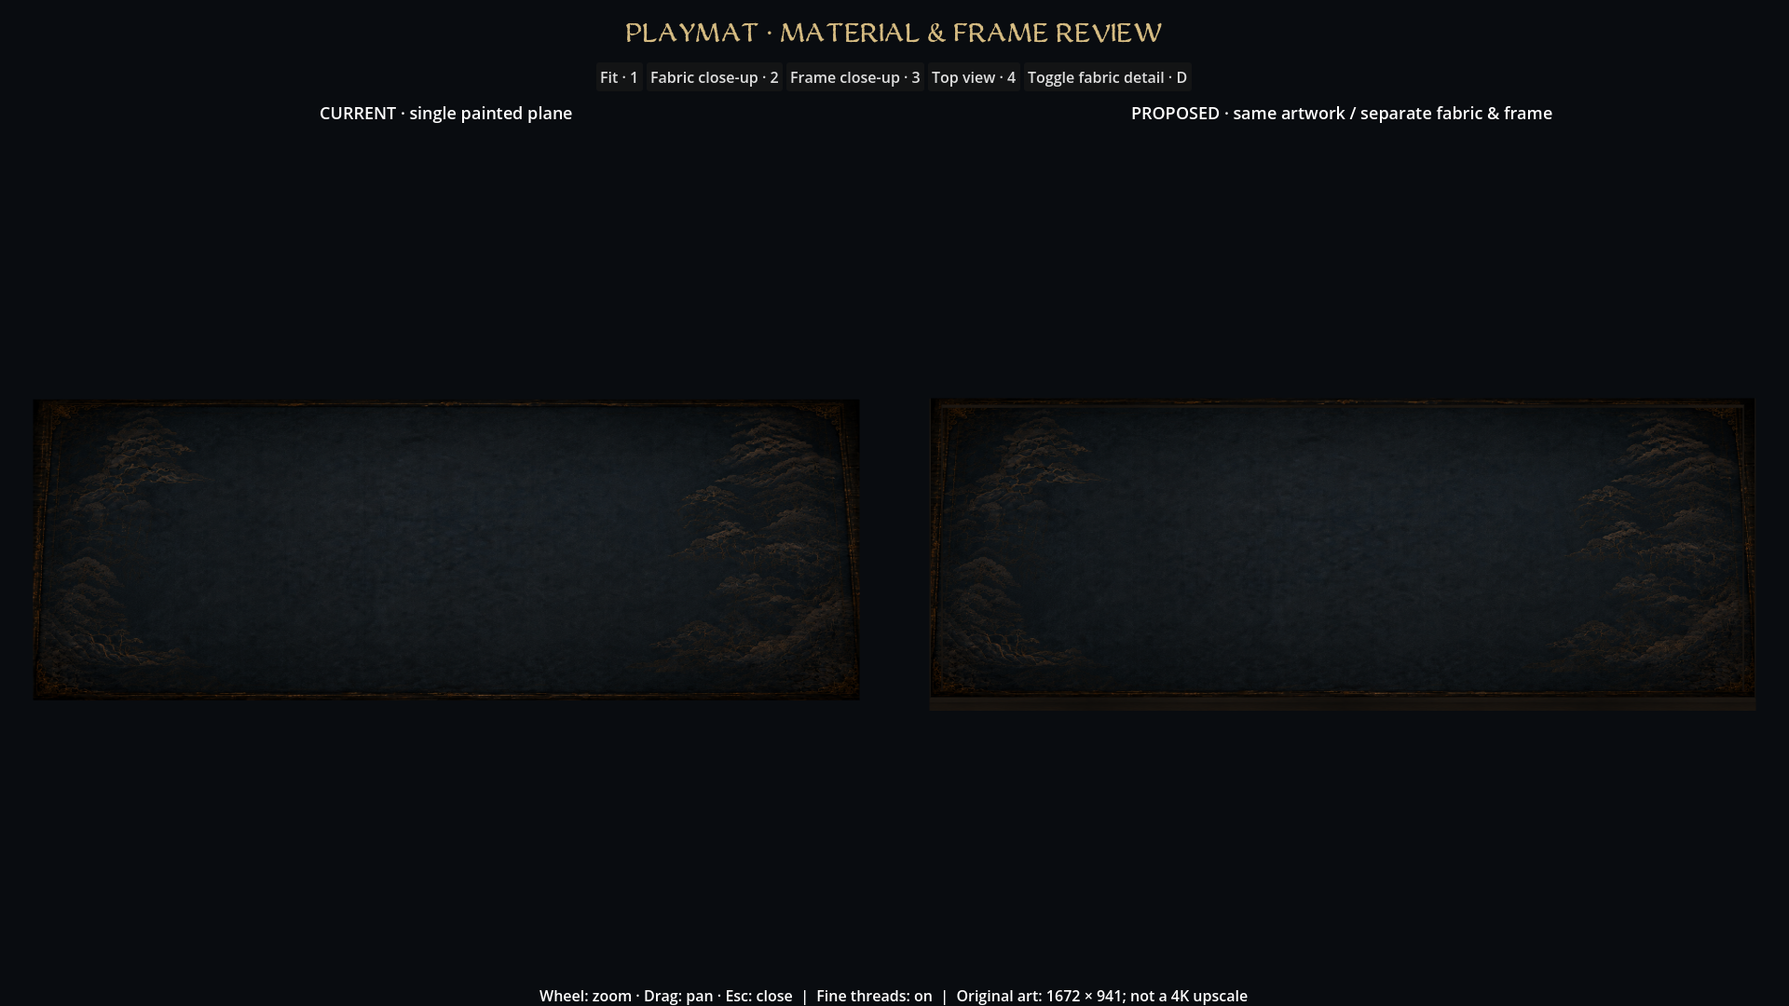
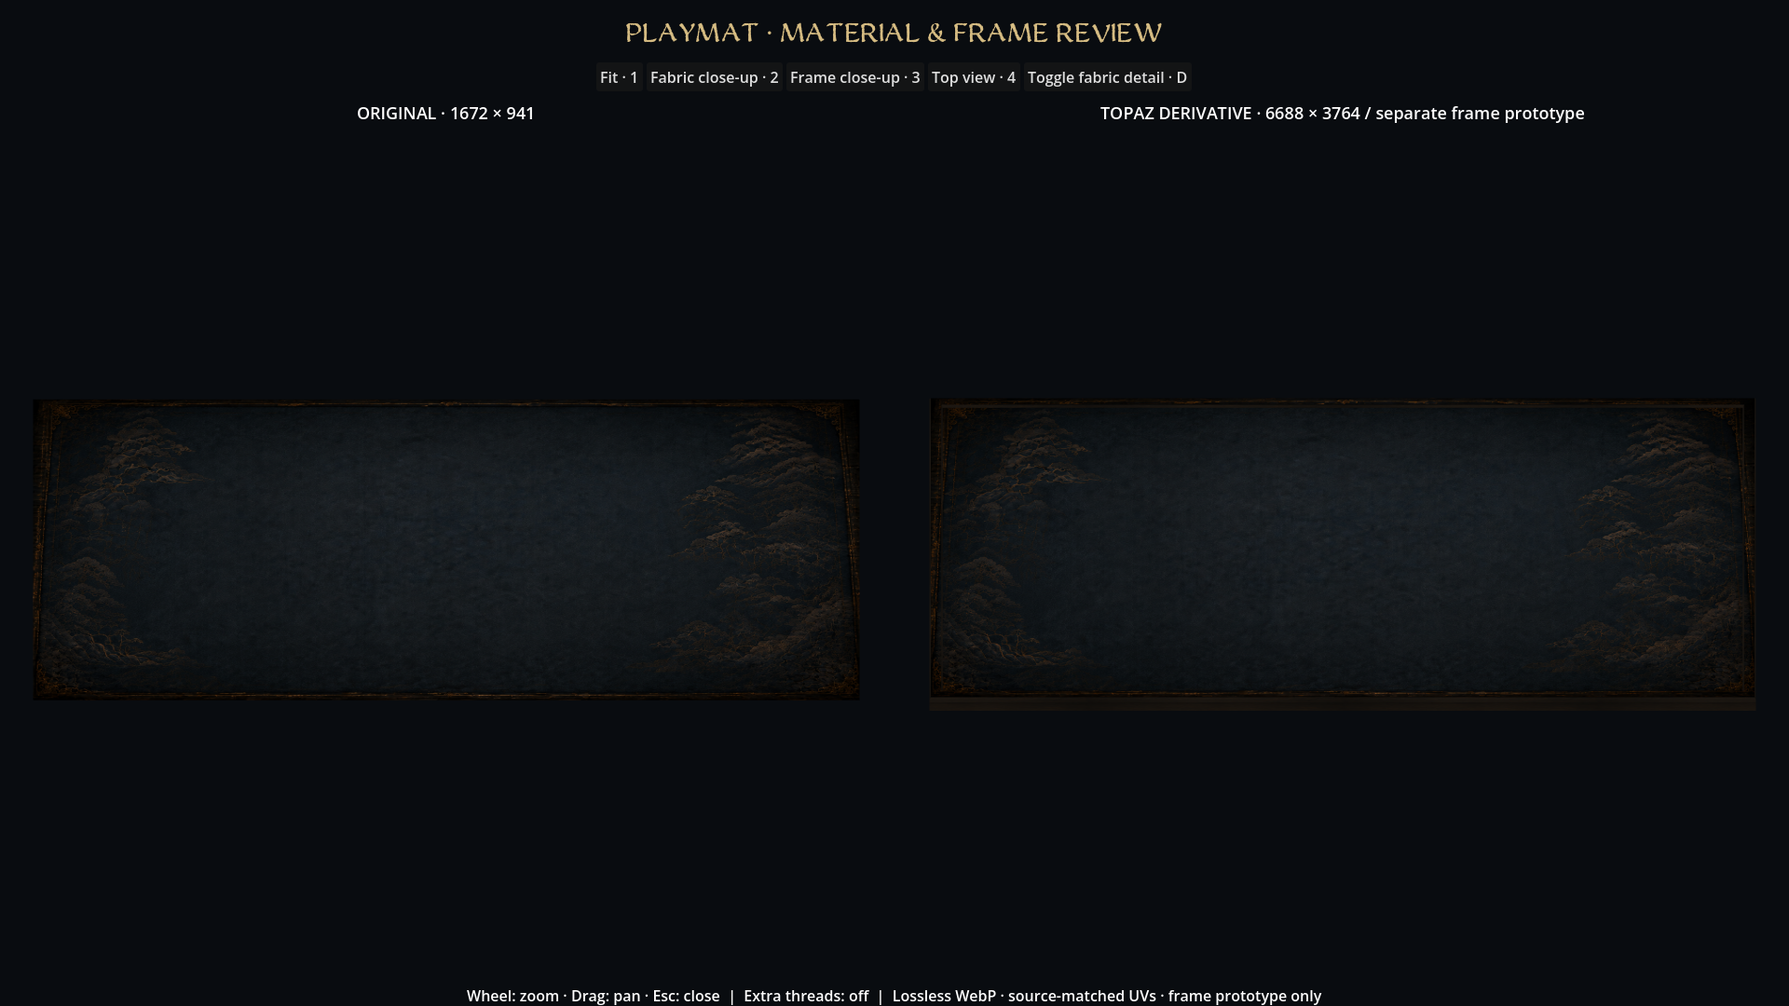
Use approved Topaz mat with verified lossless runtime texture

Changed region(s): [[0.25, 0.9778, 0.75, 1.0], [0.625, 0.0917, 0.875, 0.1222], [0.1875, 0.0917, 0.3125, 0.1222]]

diff --git a/docs/screenshots/mat-fidelity/index.html b/docs/screenshots/mat-fidelity/index.html
@@ -1,1 +1,4 @@
-<!doctype html><meta charset="utf-8"><title>Playmat material review</title><style>body{margin:0;background:#091015;color:#e9dfc7;font:18px Georgia,serif}main{max-width:1600px;margin:auto;padding:32px}h1{color:#d8b570}p{line-height:1.6;max-width:1000px}a{color:#d8b570}nav{display:flex;gap:24px;position:sticky;top:0;padding:15px;background:#091015}figure{margin:40px 0}img{width:100%;display:block}figcaption{padding:14px;border-bottom:1px solid #66583c}</style><main><h1>Playmat material &amp; frame review</h1><p>The live mat is one 1672 × 941 image, including the narrow wooden rim. These native Godot captures compare the original flat artwork with independent fabric/frame meshes using the same pixels. Fine threads add surface detail at close range; they do not restore missing detail in the printed gold artwork.</p><p>The generated reconstruction returned the same resolution and changed ornament details. It is retained as a reference, not used in these assets. This is a review prototype, not an approved 4K replacement.</p><nav><a href="#fit">Fit view</a><a href="#cloth">Fabric</a><a href="#frame">Frame</a><a href="#top">Top view</a><a href="#playable">Playable shader preview</a></nav><figure id="fit"><img src="fit.png" alt="Matching composition at fit view; left original flat plane, right separate assets."><figcaption>Matching composition at fit view; left original flat plane, right separate assets.</figcaption></figure><figure id="cloth"><img src="cloth.png" alt="Close fabric comparison. Separate fine yarn detail is subtle and filters away when zoomed out."><figcaption>Close fabric comparison. Separate fine yarn detail is subtle and filters away when zoomed out.</figcaption></figure><figure id="frame"><img src="frame.png" alt="Same ornament UVs; the right-hand asset has a separate beveled rim and wood-grain underside."><figcaption>Same ornament UVs; the right-hand asset has a separate beveled rim and wood-grain underside.</figcaption></figure><figure id="top"><img src="top.png" alt="Top-down source-to-asset comparison. No AI redraw is used in the proposed asset."><figcaption>Top-down source-to-asset comparison. No AI redraw is used in the proposed asset.</figcaption></figure><figure id="playable"><img src="playable.png" alt="Real game with optional fine-detail shader. The physical 3D frame is still in the asset review, not yet substituted for the live projected plane."><figcaption>Real game with optional fine-detail shader. The physical 3D frame is still in the asset review, not yet substituted for the live projected plane.</figcaption></figure><figure id="playable-zoom"><img src="playable-zoom.png" alt="Native 3440 by 1440 playable zoom"><figcaption>Native 3440 × 1440 close battle framing with optional fabric detail. The actual current camera and card plane are retained.</figcaption></figure></main>
+<!doctype html>
+<html lang="en"><meta charset="utf-8"><meta name="viewport" content="width=device-width,initial-scale=1"><title>Approved Topaz mat · native review</title>
+<style>body{margin:0;background:#0b1115;color:#e9dfc7;font:18px Georgia,serif}main{max-width:1700px;margin:auto;padding:32px}h1,h2{color:#d8b570}p{line-height:1.6;max-width:1000px}a{color:#dfc58b}nav{display:flex;gap:24px;flex-wrap:wrap;position:sticky;top:0;padding:15px;background:#0b1115ee;border-bottom:1px solid #67583c}figure{margin:44px 0;scroll-margin-top:90px}img{width:100%;display:block;border:1px solid #554b38}figcaption{padding:14px 0;line-height:1.5;max-width:1100px}.facts{color:#dfc58b;font-size:22px}footer{border-top:1px solid #67583c;padding:24px 0}</style>
+<main><h1>Approved Topaz mat · native review</h1><p class="facts">6688 × 3764 · lossless WebP · 18.98 MiB · mipmaps enabled</p><p>The optimized texture is now the default in this preview. Its decoded pixels exactly match the Lanczos reduction of the supplied Topaz master. The 73.73 MiB master is preserved, and the game's existing projection and lighting remain in place.</p><nav><a href="#cloth">Before / after</a><a href="#playable">Game overview</a><a href="#max">Maximum zoom</a><a href="#gold">Gold detail</a><a href="#frame">Frame prototype</a><a href="#top">Top view</a></nav><figure id="cloth"><h2>Controlled fabric comparison</h2><a href="cloth.png" target="_blank"><img src="cloth.png" alt="Left: original 1672 × 941. Right: approved 6688 × 3764 Topaz derivative. Identical review cameras, UV coordinates and colour treatment; extra procedural weave off." loading="lazy"></a><figcaption>Left: original 1672 × 941. Right: approved 6688 × 3764 Topaz derivative. Identical review cameras, UV coordinates and colour treatment; extra procedural weave off. Click an image to inspect its full resolution.</figcaption></figure><figure id="playable"><h2>In the game · overview</h2><a href="playable.png" target="_blank"><img src="playable.png" alt="3440 × 1440 native Godot capture. The new texture is the default; layout, lamp animation and camera limits are unchanged." loading="lazy"></a><figcaption>3440 × 1440 native Godot capture. The new texture is the default; layout, lamp animation and camera limits are unchanged. Click an image to inspect its full resolution.</figcaption></figure><figure id="max"><h2>In the game · maximum zoom</h2><a href="playable-zoom.png" target="_blank"><img src="playable-zoom.png" alt="3440 × 1440 at the existing 2.0 zoom limit. The original master stays untouched; this is the lossless 6688 × 3764 runtime derivative." loading="lazy"></a><figcaption>3440 × 1440 at the existing 2.0 zoom limit. The original master stays untouched; this is the lossless 6688 × 3764 runtime derivative. Click an image to inspect its full resolution.</figcaption></figure><figure id="gold"><h2>In the game · gold at maximum zoom</h2><a href="playable-gold-max.png" target="_blank"><img src="playable-gold-max.png" alt="1920 × 1080 at zoom 2.0, launched through Play Latest.command. Native input checks passed. This extreme view is included to show the practical limits of the upscale." loading="lazy"></a><figcaption>1920 × 1080 at zoom 2.0, launched through Play Latest.command. Native input checks passed. This extreme view is included to show the practical limits of the upscale. Click an image to inspect its full resolution.</figcaption></figure><figure id="frame"><h2>Wood frame · prototype only</h2><a href="frame.png" target="_blank"><img src="frame.png" alt="Right: independent beveled geometry and wood sides under the approved atlas. This frame is ready for its own design pass; it has not replaced the live painted rim." loading="lazy"></a><figcaption>Right: independent beveled geometry and wood sides under the approved atlas. This frame is ready for its own design pass; it has not replaced the live painted rim. Click an image to inspect its full resolution.</figcaption></figure><figure id="fit"><h2>Full source composition</h2><a href="fit.png" target="_blank"><img src="fit.png" alt="Original flat image at left; Topaz derivative on the separate-frame prototype at right." loading="lazy"></a><figcaption>Original flat image at left; Topaz derivative on the separate-frame prototype at right. Click an image to inspect its full resolution.</figcaption></figure><figure id="top"><h2>Top view</h2><a href="top.png" target="_blank"><img src="top.png" alt="Matching artwork placement. The original .blend still packs the small source image; Godot overrides materials with the new runtime texture." loading="lazy"></a><figcaption>Matching artwork placement. The original .blend still packs the small source image; Godot overrides materials with the new runtime texture. Click an image to inspect its full resolution.</figcaption></figure><footer><p>Verified in Godot 4.7.2 Compatibility on Apple M1 Max: native import, client compilation and existing camera/input checks. Gameplay screenshots use independently generated engine fixtures; the paired asset viewer is the controlled artwork comparison. Windows graphical testing and full motion/performance profiling are not claimed.</p><p>The next pass is the physical wood frame: approved concept, refined Blender geometry/materials, then native integration and comparison. Room lighting and a mat selector follow later.</p></footer></main></html>

diff --git a/tools/blender/prepare_mat_texture.py b/tools/blender/prepare_mat_texture.py
@@ -1,0 +1,50 @@
+#!/usr/bin/env python3
+"""Derive the approved runtime texture from the user's untouched Topaz master."""
+import argparse
+import hashlib
+import json
+from pathlib import Path
+
+from PIL import Image, ImageChops, __version__ as pillow_version
+
+ROOT = Path(__file__).resolve().parents[2]
+OUTPUT = ROOT / "src/L5R.Client/Art/navy-mat-topaz-4x.webp"
+REPORT = ROOT / "assets/table/mat-fidelity/texture-provenance.json"
+
+
+def sha256(path):
+    with path.open("rb") as stream:
+        return hashlib.file_digest(stream, "sha256").hexdigest()
+
+
+def main():
+    parser = argparse.ArgumentParser(description=__doc__)
+    parser.add_argument("master", type=Path)
+    args = parser.parse_args()
+    Image.MAX_IMAGE_PIXELS = 150_000_000
+    with Image.open(args.master) as master:
+        if master.size != (13376, 7528) or master.mode != "RGB":
+            raise ValueError("Expected the approved 13376 × 7528 RGB Topaz master.")
+        reduced = master.resize((6688, 3764), Image.Resampling.LANCZOS)
+    reduced.save(OUTPUT, "WEBP", lossless=True, method=4)
+    with Image.open(OUTPUT) as decoded:
+        if decoded.size != reduced.size or ImageChops.difference(reduced, decoded.convert("RGB")).getbbox():
+            raise ValueError("WebP verification failed: decoded pixels differ from the resized source.")
+    report = {
+        "master": {"filename": args.master.name, "dimensions": [13376, 7528],
+                   "bytes": args.master.stat().st_size, "sha256": sha256(args.master),
+                   "provenance": "User supplied Topaz 8x upscale; master preserved outside Git."},
+        "runtime": {"path": str(OUTPUT.relative_to(ROOT)), "dimensions": list(reduced.size),
+                    "bytes": OUTPUT.stat().st_size, "sha256": sha256(OUTPUT),
+                    "pixel_sha256": hashlib.sha256(reduced.tobytes()).hexdigest(),
+                    "encoding": "Lossless WebP, method 4", "resampling": "Lanczos",
+                    "pillow": pillow_version, "decoded_pixel_match": True},
+        "godot": {"compression": "lossless", "mipmaps": True, "size_limit": 0,
+                  "extra_procedural_weave": "off by default"}
+    }
+    REPORT.write_text(json.dumps(report, indent=2) + "\n")
+    print(json.dumps(report, indent=2))
+
+
+if __name__ == "__main__":
+    main()

diff --git a/src/L5R.Client/Main.CameraCapture.cs b/src/L5R.Client/Main.CameraCapture.cs
@@ -139,6 +139,21 @@ public partial class Main
                         _cameraFitted = false; _cameraZoom = FitZoom * .72f;
                         ApplyTableCamera();
                     }
+                    if (_captureMode.Contains("mat-max", StringComparison.Ordinal))
+                    {
+                        // Review the real table at its existing maximum zoom, with
+                        // both near-side artwork and cards visible for scale.
+                        _cameraFitted = false; _cameraZoom = 2f;
+                        _cameraCenter = new Vector2(WorldWidth * .2f, _selfProvinceY);
+                        if (_captureMode.Contains("gold", StringComparison.Ordinal))
+                        {
+                            var fabric = TableArtStage.FabricBounds(new Vector2(WorldWidth, _worldHeight));
+                            _cameraCenter.X = fabric.Position.X + fabric.Size.X * .09f;
+                        }
+                        ApplyTableCamera();
+                        RequireCamera(Mathf.IsEqualApprox(_cameraZoom, 2f), "mat review did not reach the maximum zoom");
+                        GD.Print($"MAT_MAX_ZOOM: zoom={_cameraZoom}, density={_root.Scale.X}, center={_cameraCenter}");
+                    }
                     MoveProbeMouse(_menu.GetGlobalRect().Position - new Vector2(10, 10));
                     break;
                 case 21:

diff --git a/src/L5R.Client/TableArtStage.cs b/src/L5R.Client/TableArtStage.cs
@@ -104,9 +104,15 @@ public partial class TableArtStage : Node3D
                     }
                     """ };
                 var material = new ShaderMaterial { Shader = ReviewMode ? shader : GD.Load<Shader>("res://Art/navy-table.gdshader") };
-                if (!ReviewMode) material.SetShaderParameter("plate_texture", GD.Load<Texture2D>("res://Art/navy-mat-v4.png"));
                 if (!ReviewMode)
                 {
+                    // Retain the original only for matched native fidelity captures.
+                    var matPath = OS.GetCmdlineUserArgs().Contains("--mat-original-review")
+                        ? "res://Art/navy-mat-v4.png" : "res://Art/navy-mat-topaz-4x.webp";
+                    var mat = GD.Load<Texture2D>(matPath);
+                    if (mat is null) throw new InvalidOperationException($"The playable mat texture is missing: {matPath}");
+                    material.SetShaderParameter("plate_texture", mat);
+                    GD.Print($"MAT_TEXTURE: {matPath} {mat.GetWidth()}x{mat.GetHeight()}; extra weave opt-in only.");
                     if (OS.GetCmdlineUserArgs().Contains("--mat-detail-preview"))
                         material.SetShaderParameter("fabric_detail_strength", .13f);
                     material.SetShaderParameter("lantern_texture", GD.Load<Texture2D>("res://Art/tavern-lantern.png"));

diff --git a/assets/table/mat-fidelity/README.md b/assets/table/mat-fidelity/README.md
@@ -1,39 +1,38 @@
-# Playmat material / frame review — issue 218
+# Playmat texture and separate-frame review — issue 218
 
-The active game uses the 1672×941 `navy-mat-v4.png` on a shader-projected flat plane. The visible narrow wooden edge is baked into that texture. Lanterns are separate. Older `TableView`/`build_table.py` wooden geometry is not the active table.
+The playable table now uses the approved Topaz artwork at **6688 × 3764**, encoded as **lossless WebP (19,905,220 bytes / 18.98 MiB)**. The user's 13376 × 7528 PNG master remains untouched outside Git. Layout, camera limits, lantern animation and colour treatment are preserved. The painted rim is still part of the playable texture; the physical frame remains a review prototype.
 
-This pass creates independent Blender fabric and frame objects and a Godot review. The original artwork remains the source of truth. No game layout, camera limits, cards, menus or rules are changed. The live mat is not replaced by an unapproved generated variant.
+## Approved texture pipeline
 
-## Fidelity strategy
+Run `python3 tools/blender/prepare_mat_texture.py /path/to/enhanced_navy-mat-v4.png` with Pillow installed. The script validates the expected master dimensions, halves both axes using Lanczos, writes the runtime WebP and verifies that decoding it exactly reproduces the resized RGB pixels. It does not repaint, sharpen, crop or recompose the approved artwork. `texture-provenance.json` records input/output hashes, dimensions, encoding and Pillow version.
 
-- Preserve the original printed design through continuous UVs across fabric and frame. No AI redraw in the proposed asset.
-- Add derivative-filtered fine textile detail separately. It resolves at close range and fades below pixel size; it does not restore missing detail in the gold illustration.
-- Model a narrow, beveled wooden frame independently, with real depth and separate wood material.
-- Keep the cloth material, frame material and geometry independent so later approved mats can replace the cloth without rebuilding the table.
+Godot imports the texture losslessly with mipmaps and no size cap or automatic 3D compression. The runtime source is 74% smaller than the master, with 75% fewer pixels. The current RGB8 texture plus a full mip chain is approximately 96 MiB before driver overhead (128 MiB if expanded to RGBA8). WebP saves file storage, not GPU memory by itself. The local Godot imported texture is approximately 26 MiB on disk including mip levels.
 
-The generated `fabric-reconstruction-reference.png` is an experiment only: it returned 1672×941 despite the 4K request, and changed ornaments. It is not an upscale. See `imagegen-prompt.md`.
+The active `TableArtStage` loads this WebP by default. `--mat-original-review` retains the old 1672 × 941 image for diagnostics only. Extra procedural weave stays off; `--mat-detail-preview` remains an optional material experiment because the Topaz artwork already contains surface detail.
 
-## Deliverables
+## Separate geometry, ready for the wood-frame pass
 
-- `navy-mat-separated.blend`: editable fabric insert and narrow beveled wooden frame. Metres, 1.8 × 1.013 m outer dimensions; dimensions are a starting scale, not a new gameplay layout.
-- `src/L5R.Client/Art/MatFidelity/navy-mat-separated.glb`: two geometry objects, about 6 KB, independent material slots. The GLB does not embed duplicate texture pixels.
-- `src/L5R.Client/Art/MatFidelity/navy-mat-separated.tscn`: Godot-ready scene with separate `navy-fabric.tres` and `wooden-frame.tres` resources. It references the existing artwork and the previously generated walnut texture for the newly exposed sides.
-- `tools/blender/build_mat_fidelity.py`: reproducible Blender export. No Meshy generation was needed for this simple measured geometry.
-- `tools/blender/Review Playmat.command`: native side-by-side viewer. Keys 1–4 change viewpoints, wheel zooms, drag pans, D toggles detail, Esc exits. No catalogue installation required.
-- `docs/screenshots/mat-fidelity/index.html`: native comparison captures; left original, right proposed asset.
+- `navy-mat-separated.blend`: editable fabric insert and narrow beveled wooden frame; metres, 1.8 × 1.013 m outer dimensions. This geometry source still packs the original small atlas; Godot materials override it with the approved runtime texture.
+- `src/L5R.Client/Art/MatFidelity/navy-mat-separated.glb`: two geometry objects, about 6 KB, independent material slots and no embedded bitmap duplication.
+- `navy-mat-separated.tscn`, `navy-fabric.tres` and `wooden-frame.tres`: independent Godot meshes/materials using continuous source UVs. Newly exposed frame sides use the existing walnut texture.
+- `tools/blender/build_mat_fidelity.py`: reproducible Blender geometry export. Meshy is unnecessary for this measured ring and fabric insert.
+- `tools/blender/Review Playmat.command`: native side-by-side viewer; left original flat image, right approved Topaz derivative on the separate-frame prototype. Keys 1–4 change viewpoints, wheel zooms, drag pans, D toggles experimental threads, Esc exits. No catalogue installation required.
+- `docs/screenshots/mat-fidelity/index.html`: source-to-game evidence and remaining limits.
 
-Godot shaders use mipmapped anisotropic sampling for the separate asset, with derivative-filtered textile frequencies. The original runtime shader remains at its existing filtering and zero extra detail by default. `Play Latest.command -- --mat-detail-preview` opts into fine threads on the existing playable plane; it does **not** integrate the physical frame. The `--` separator is required.
+The earlier `fabric-reconstruction-reference.png` is an unused imagegen experiment. It returned 1672 × 941 and changed ornaments; it was never used as an upscale or runtime replacement.
 
-## Validation / remaining limits
+## Native validation
 
-Blender 5.2.1 exported successfully. Godot 4.7.2 Compatibility rendered fit, fabric close-up, frame close-up and top views at 1920×1080. Native client compilation passed with zero warnings/errors. The real playable preview passed existing native camera/input checks (cursor zoom, pan, normal card clicks, fixed HUD and modal isolation).
+- Client compilation: zero warnings/errors, including the current main at 0314dcc.
+- Godot 4.7.2 Compatibility on Apple M1 Max: native import completed with the full 6688 × 3764 texture. Captures contain no missing-resource or shader errors.
+- Matched 1920 × 1080 asset-review views: fit, fabric close-up, corner/frame and top view. Extra procedural detail off on both sides. Native colour, UV composition and corner art inspected.
+- Actual gameplay: 3440 × 1440 overview and existing maximum zoom of 2.0; 1920 × 1080 maximum zoom over gold ornament through `Play Latest.command`. Logs confirm the new runtime texture dimensions.
+- Existing native camera/input checks passed: cursor-anchored wheel zoom, pan, Home reset, fixed HUD/hand, modal isolation and upright/bowed card edge clicks without match mutations.
 
-The first headless editor import crashed while importing a font. A native editor import completed; the final captures contain no resource or shader errors. Import-generated changes to unrelated settings/assets were excluded.
+The playable captures are independently generated engine fixtures, not identical saved matches. The paired asset viewer is the controlled artwork comparison. The upscale improves the close surface but cannot make the illustration infinitely detailed. Full motion/performance profiling and Windows graphical playtesting are not claimed.
 
-The original artwork remains 1672×941. Fine yarn detail improves the close surface but cannot reconstruct sharp gold motifs at arbitrary magnification. This pass is a faithful **asset structure / material prototype**, not a completed high-resolution master. Side-by-side views use identical asset-review cameras; gameplay evidence uses the actual projected table. The review is not a full scene pixel-equivalence claim.
+The earlier Mac CI run (34822273287) crashed in the Godot headless importer with a worker-thread scene notification error while importing fonts; this preceded the Topaz texture change. Native import and rendering succeeded. The latest PR checks are recorded in its handoff/PR.
 
-The top artwork is currently unshaded to retain the approved colours. Full room light response, physical-frame integration with the existing projected card plane, a higher-resolution faithful illustration, and the player-facing mat picker remain later work after review. Mat and frame still sample different UV regions of one approved artwork atlas; they are independent meshes/materials, not newly reconstructed independent 4K image files.
+## Next pass
 
-## Review gate
-
-Compare the native source and separated asset at fit, cloth close-up and frame close-up, then review actual gameplay with optional fine-detail shading. Physical room integration and a selectable-mat menu are later steps. A higher-resolution faithful gold artwork master remains desirable; fine fabric shading alone cannot solve unlimited zoom.
+Design and approve the physical wood frame, then refine the Blender frame's width, bevels, corner joinery and worn wood material. Integrate it with the existing projected table only after visual comparison. Avoid a second painted rim by aligning the cloth/frame UV boundary. Full room lighting and the player-facing mat picker remain later work. The frame is independent geometry/materials; it does not yet replace the live table's painted rim.
